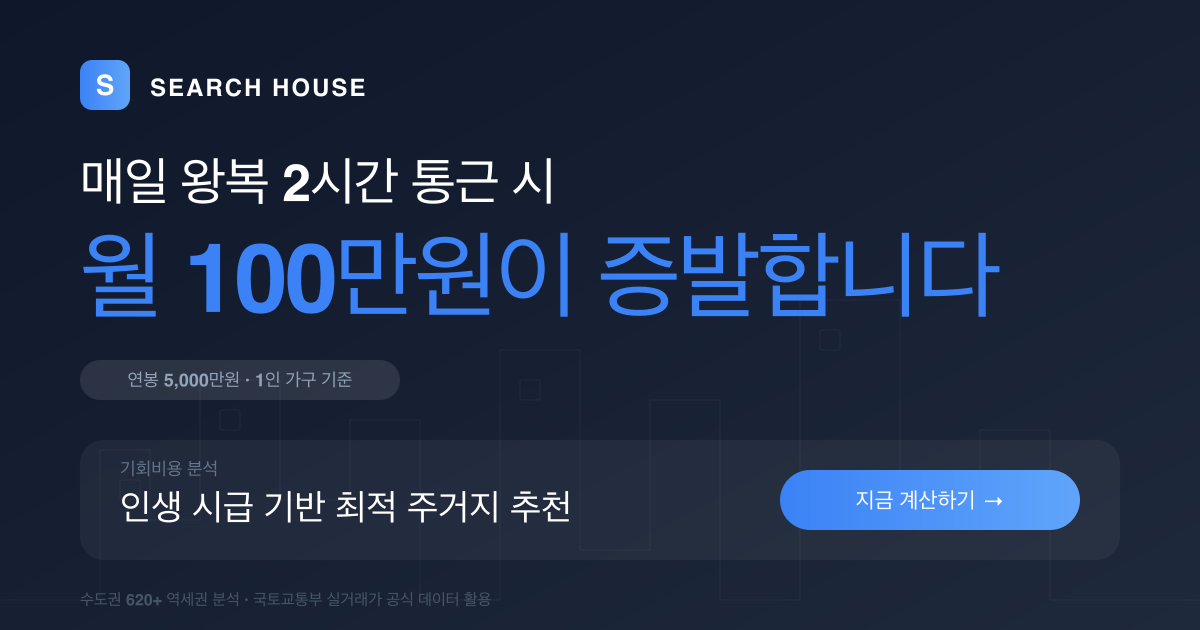
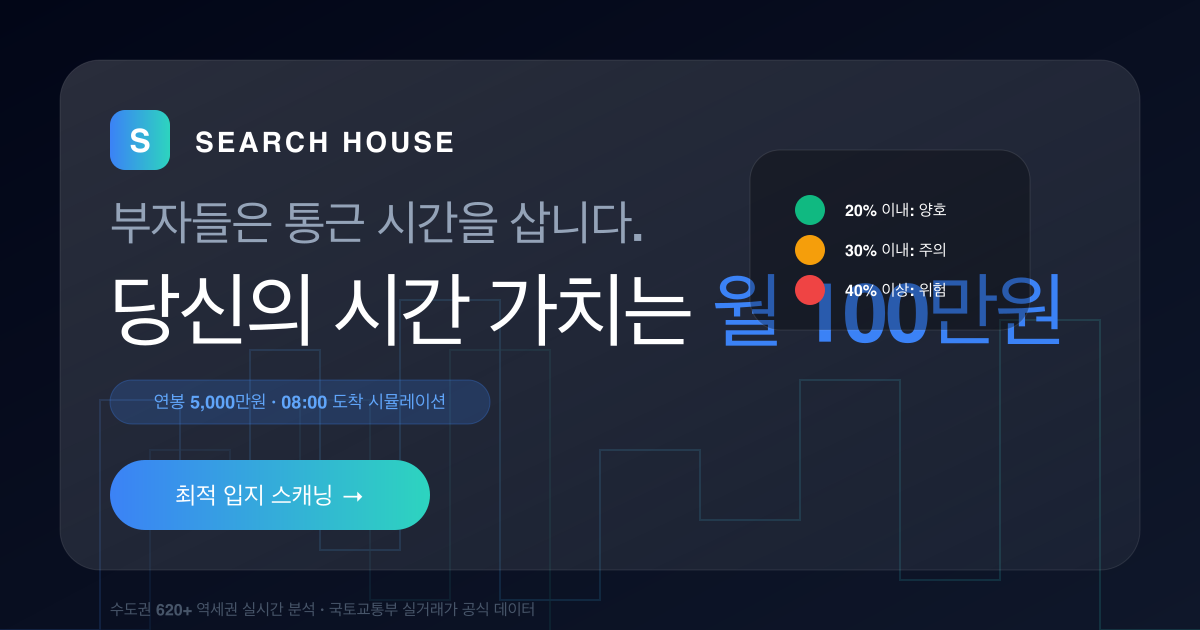
feat(frontend): 주거비 위험도 신호등 시스템 및 프리미엄 OG 이미지 도입
- 주거비 한도별 신호등 색상 적용 (양호 <=20%, 주의 <=30%, 위험 >=40%)
- 결과 카드에 실제 소득 대비 지출 비율 및 상태 배지 표시
- 마케팅 특화 OG 이미지 v4 제작 (도시 야경 배경, 강력한 헤드라인, 시스템 가이드 포함)

diff --git a/client/src/App.jsx b/client/src/App.jsx
@@ -354,6 +354,12 @@ function App() {
 
   useEffect(() => { window.dispatchSpotClick = (index) => { if (results && results[index]) handleSpotClick(results[index], index); }; }, [results, handleSpotClick]);
 
+  const getBudgetStatus = (ratio) => {
+    if (ratio <= 0.2) return { label: '양호', color: 'text-green-600', bg: 'bg-green-50', border: 'border-green-100', icon: '✅' };
+    if (ratio <= 0.3) return { label: '주의', color: 'text-orange-600', bg: 'bg-orange-50', border: 'border-orange-100', icon: '⚠' };
+    return { label: '위험', color: 'text-red-600', bg: 'bg-red-50', border: 'border-red-100', icon: '🚨' };
+  };
+
   const handleSearch = async () => {
     if (!inputs.user1.workplace) { alert("나의 직장 위치를 선택해 주세요."); return; }
     const sleep = (ms) => new Promise(res => setTimeout(res, ms));
@@ -507,11 +513,30 @@ function App() {
                 </div>
               )}
               <div className="space-y-1.5">
-                <div className="flex items-center justify-between px-1"><div className="text-[10px] font-black text-gray-400 uppercase tracking-widest">소득 대비 주거비 한도</div><div className="text-[11px] font-black text-blue-600">월 {Math.round(((mode === 'couple' ? inputs.user1.salary + inputs.user2.salary : inputs.user1.salary) * housingRatio / 12))}만원 이내</div></div>
+                <div className="flex items-center justify-between px-1">
+                  <div className="text-[10px] font-black text-gray-400 uppercase tracking-widest">소득 대비 주거비 한도</div>
+                  <div className={`text-[11px] font-black ${getBudgetStatus(housingRatio).color}`}>
+                    {getBudgetStatus(housingRatio).icon} 월 {Math.round(((mode === 'couple' ? inputs.user1.salary + inputs.user2.salary : inputs.user1.salary) * housingRatio / 12))}만원 이내 ({getBudgetStatus(housingRatio).label})
+                  </div>
+                </div>
                 <div className="flex bg-gray-100 rounded-xl p-1 gap-0.5">
-                  {[0.1, 0.2, 0.25, 0.3, 0.4].map((ratio) => (
-                    <button key={ratio} onClick={() => setHousingRatio(ratio)} className={`flex-1 py-1.5 rounded-lg text-[11px] font-black transition-all ${housingRatio === ratio ? 'bg-white shadow-sm text-blue-600' : 'text-gray-400 hover:text-gray-600'}`}>{Math.round(ratio * 100)}%</button>
-                  ))}
+                  {[0.1, 0.2, 0.25, 0.3, 0.4].map((ratio) => {
+                    const status = getBudgetStatus(ratio);
+                    const isActive = housingRatio === ratio;
+                    return (
+                      <button 
+                        key={ratio} 
+                        onClick={() => setHousingRatio(ratio)} 
+                        className={`flex-1 py-1.5 rounded-lg text-[11px] font-black transition-all 
+                          ${isActive 
+                            ? `bg-white shadow-sm ${status.color}` 
+                            : 'text-gray-400 hover:text-gray-600'
+                          }`}
+                      >
+                        {Math.round(ratio * 100)}%
+                      </button>
+                    );
+                  })}
                 </div>
               </div>
               <div className="flex gap-2">
@@ -533,6 +558,10 @@ function App() {
                 </div>
                 {results.map((spot, i) => {
                   const topApt = spot.complexes[0];
+                  const monthlyIncome = ((mode === 'couple' ? inputs.user1.salary + inputs.user2.salary : inputs.user1.salary) * 10000 / 12) / 10000;
+                  const actualRatio = topApt?.fixed_monthly_exp / monthlyIncome;
+                  const status = getBudgetStatus(actualRatio);
+
                   return (
                   <div key={i} className={`transition-all rounded-[1.5rem] border overflow-hidden ${expandedSpotIndex === i ? 'bg-white border-blue-200 shadow-xl ring-1 ring-blue-100' : 'bg-white border-gray-100 hover:border-gray-200'}`}>
                     <button onClick={() => handleSpotClick(spot, i)} className="w-full p-4 pb-3 text-left">
@@ -545,7 +574,9 @@ function App() {
                           </div>
                         </div>
                         <div className="text-right shrink-0 ml-2">
-                          <div className="text-[8px] font-black text-gray-300 uppercase mb-0.5">{topApt?.display_price_label}</div>
+                          <div className={`text-[9px] font-black px-2 py-0.5 rounded-full ${status.bg} ${status.color} border ${status.border} mb-1 inline-block`}>
+                            소득의 {Math.round(actualRatio * 100)}% ({status.label})
+                          </div>
                           <div className="text-[12px] font-black text-gray-700 tracking-tight">{topApt?.display_price_value}</div>
                         </div>
                       </div>
